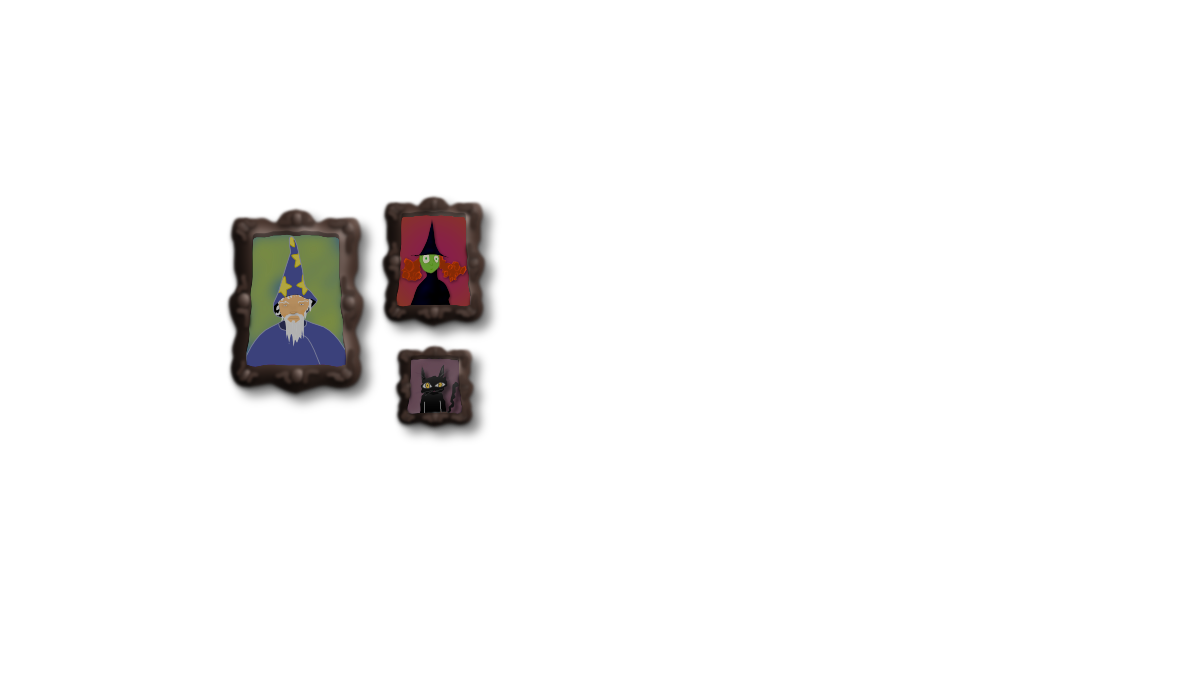
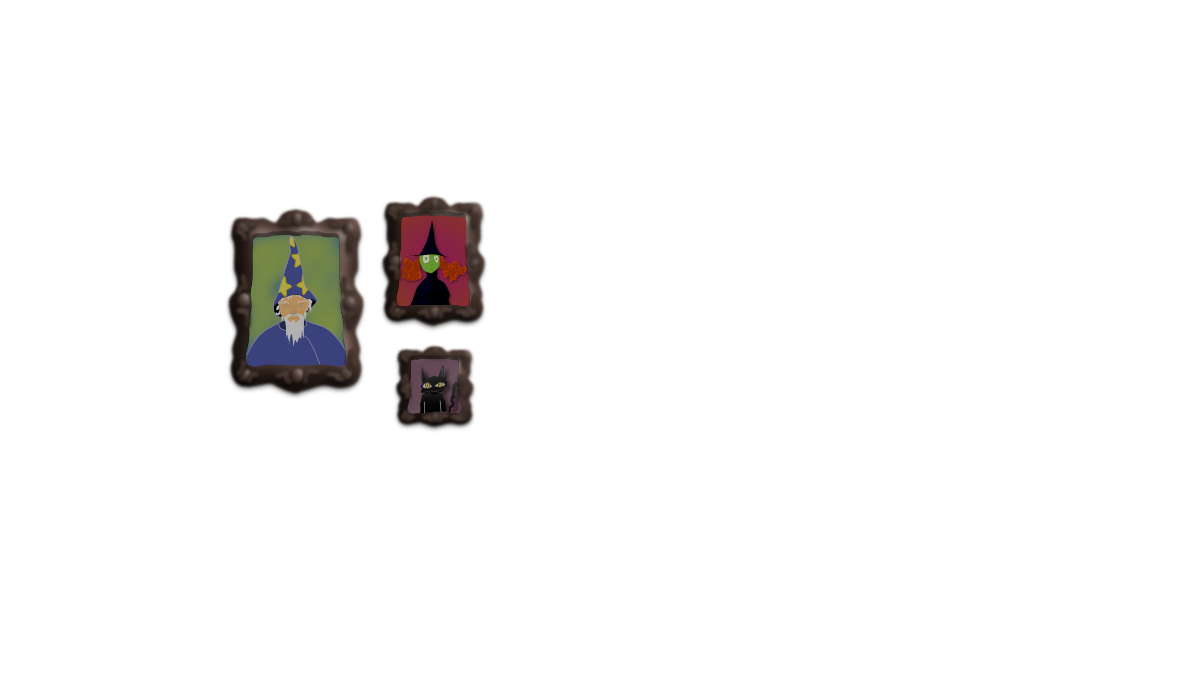
The wall sconce in front of the door's flame (WALL_ELEMENTS isInFrontOfFlame), the flame from its new place (BackgroundWallElements) and its crop fitted to its new image; the background back to the original (Test3: no frames or armour in it, its flame baked in), the frames and armour images updated

Changed region(s): [[0.185, 0.3111, 0.4317, 0.6222], [0.3392, 0.5289, 0.4008, 0.6533]]

diff --git a/src/UI_Components/SceneElements/WallElements.tsx b/src/UI_Components/SceneElements/WallElements.tsx
@@ -27,6 +27,7 @@ export const BACKGROUND_IMAGE_BRIGHTNESS = { dark: 4, lit: 1.25 };
  * where it touches the floor (contacts), each a flat, blurred rounded patch (blur: cqw), at the floor's height (y).
  * scale: its width and height (1: as drawn), from the bottom of its middle (so it stays standing on the floor);
  * move: shifting it (pixels, of the 1200 x 675 scene: x right, y down). Its shadow moves and widens with it.
+ * isInFrontOfFlame: drawn over the door's flame (the wall sconce holding it).
  */
 export const WALL_ELEMENTS = {
   brightness: { landing: 1, play: 1 },
@@ -34,6 +35,7 @@ export const WALL_ELEMENTS = {
   hueRotate: 0,
   items: [
     { name: 'PictureFrames', box: { x: 220, y: 190, w: 288, h: 260 }, hueRotate: 0, scale: { x: 1, y: 1 }, move: { x: 0, y: 0 } } as WallItem,
+    { name: 'Wall_Sconce', box: { x: 1068, y: 254, w: 26, h: 30 }, isInFrontOfFlame: true } as WallItem,
     { name: 'SuitOfArmor', box: { x: 705, y: 45, w: 266, h: 460 }, hueRotate: 0, scale: { x: 1, y: 1 }, move: { x: 0, y: 0 }, shadow: {
       y: 484, blur: 0.5,
       spread: { x: 858, w: 230, h: 18, opacity: 0.4 },
@@ -46,6 +48,7 @@ type WallItem = {
   brightness?: { landing: number; play: number }; blur?: number; hueRotate?: number;
   shadow?: { y: number; blur: number; spread: ShadowSpot; contacts: Array<ShadowSpot> };
   scale?: { x: number; y: number }; move?: { x: number; y: number };
+  isInFrontOfFlame?: boolean; // (the sconce: drawn over the torch's flame)
 };
 
 /** A patch of shadow on the floor: its middle (x), width and height (pixels), and how dark (opacity). */
@@ -70,8 +73,8 @@ export const DOOR_FLAME = {
   flickerSeconds: 0.9,
   swaySeconds: 3.4,
   swayDeg: 3,
-  box: { x: 1022, y: 195, w: 120, h: 120 },
-  base: { x: 1082, y: 268 },
+  box: { x: 1004, y: 200, w: 126, h: 132 },
+  base: { x: 1082, y: 266 }, // (standing in the sconce's cup)
 };
 
 const isLit = (sceneBrightness: number) => sceneBrightness > rootGameStore.LOW_BRIGHTNESS;
@@ -172,7 +175,7 @@ const FlameSway = styled.div`
   animation: ${torchSway} ${DOOR_FLAME.swaySeconds}s ease-in-out infinite;
 `;
 const FlameFlicker = styled.div`
-  ${crop('background-scene/DoorFlame/Green_Flame.png', DOOR_FLAME.box)}
+  ${crop('background-scene/BackgroundWallElements/Green_Flame.png', DOOR_FLAME.box)}
   left: 0;
   top: 0;
   transform-origin: ${origin};
@@ -183,7 +186,7 @@ const FlameFlicker = styled.div`
 export default function WallElements({ sceneBrightness }: { sceneBrightness: number }) {
   return (
     <>
-      {WALL_ELEMENTS.items.map(item => (
+      {WALL_ELEMENTS.items.filter(item => !item.isInFrontOfFlame).map(item => (
         <Fragment key={item.name}>
           {item.shadow && (
             <FloorShadow $item={item}>
@@ -196,6 +199,7 @@ export default function WallElements({ sceneBrightness }: { sceneBrightness: num
       <FlameBox $sceneBrightness={sceneBrightness}>
         <FlameSway><FlameFlicker /></FlameSway>
       </FlameBox>
+      {WALL_ELEMENTS.items.filter(item => item.isInFrontOfFlame).map(item => <WallItemImage key={item.name} $item={item} $sceneBrightness={sceneBrightness} />)}
     </>
   );
 }

diff --git a/src/UI_Components/Logo/logoConfig.ts b/src/UI_Components/Logo/logoConfig.ts
@@ -165,7 +165,7 @@ export const LOGO_CONFIG = {
     list: [
       { spellName: 'Quicken', symbol: 'line', x: 27, y: 5.25, rotation: 15, w: 25, h: 15, cells: { w: 3, h: 1 }, cellSize: 14, direction: 1, fade: 'towardWands', spellOffset: { x: -1.13, y: 1.93 }, fadeRanges: { symbolOut: { start: 0.5, end: .99 }, spellIn: { start: 0.0, end: 0.1 } }, fadeSpell: false }, // mirrors the Ether (its offset: the Ether's, mirrored, in the line's 33-degree frame)
       { spellName: 'Phlegm', symbol: 'star', x: 50, y: 47, rotation: 0, w: 30, h: 30, cells: { w: 3, h: 3 }, cellSize: 13, direction: 1, fade: 'towardWands', spellOffset: { x: 0, y: -5 }, fadeRanges: { symbolOut: { start: 0.9, end: .99 }, spellIn: { start: 0.2, end: 0.5 } }, symbolOpacity: 0.5 },
-      { spellName: 'Ether', symbol: 'circle', x: 70, y: 10.25, rotation: -10, w: 18, h: 18, cells: { w: 3, h: 3 }, cellSize: 11, direction: -1, fade: 'towardWands', flipX: true, spellOffset: { x: 3, y: 1 }, fadeRanges: { symbolOut: { start: 0.7, end: 0.99 }, spellIn: { start: 0.0, end: 0.1 } }, fadeSpell: false },
+      { spellName: 'Ether', symbol: 'circle', x: 70, y: 10.25, rotation: -10, w: 12, h: 12, cells: { w: 2, h: 2 }, cellSize: 11, direction: -1, fade: 'towardWands', flipX: true, spellOffset: { x: 3, y: 1 }, fadeRanges: { symbolOut: { start: 0.7, end: 0.99 }, spellIn: { start: 0.0, end: 0.1 } }, fadeSpell: false },
       { spellName: 'GyreDown', symbol: 'triangle', x: 16, y: 28, rotation: 0, w: 15, h: 33, cells: { w: 1, h: 3 }, cellSize: 13, direction: 1, fade: 'vertical', spellOffset: { x: 0, y: 1 }, symbolOpacity: 0.5, spellOpacity: 1, spellBoost: 2, fadeRanges: { symbolOut: { start: .8, end: .99 }, spellIn: { start: 0.0, end: 0.1 } }  },
       { spellName: 'GyreUp', symbol: 'diamond', x: 84, y: 25, rotation: 0, w: 15, h: 33, cells: { w: 1, h: 3 }, cellSize: 13, direction: -1, fade: 'vertical', spellOffset: { x: 0, y: 3 }, symbolOpacity: 0.5, spellOpacity: 1, spellBoost: 2, fadeRanges: { symbolOut: { start: 0.1, end: 0.9 }, spellIn: { start: 0.0, end: 0.1 } }  },
     ] as Array<LogoSpell>,

diff --git a/src/DataClasses/AssetLoader/AssetLoader.ts b/src/DataClasses/AssetLoader/AssetLoader.ts
@@ -26,10 +26,11 @@ const logoImgSrcs = [
 
 /** The rest of the background scene (the clock is in logoImgSrcs). */
 const sceneImageSrcs = [
-    'background-scene/QuickCast-Background-Test4_with_Glow.png',
+    'background-scene/QuickCast-Background-Test3.png',
     'background-scene/BackgroundWallElements/PictureFrames.png',
     'background-scene/BackgroundWallElements/SuitOfArmor.png',
-    'background-scene/DoorFlame/Green_Flame.png',
+    'background-scene/BackgroundWallElements/Green_Flame.png',
+    'background-scene/BackgroundWallElements/Wall_Sconce.png',
     'background-scene/Chandelier/Chandelier-candle-flames.png',
     'background-scene/Chandelier/Chandelier-candles-holder-iron.png',
     'background-scene/Chandelier/Chandelier-chain-iron.png',

diff --git a/src/UI_Components/GameComponent.tsx b/src/UI_Components/GameComponent.tsx
@@ -79,7 +79,7 @@ const GameWrapper = styled.div<{ $backgroundSceneBrightness: number; $isShaking:
     left: 0;
     width: 100%;
     height: 100%;
-    background-image: url('background-scene/QuickCast-Background-Test4_with_Glow.png');
+    background-image: url('background-scene/QuickCast-Background-Test3.png');
     background-repeat: no-repeat;
     background-size: cover;
     background-position: center;
